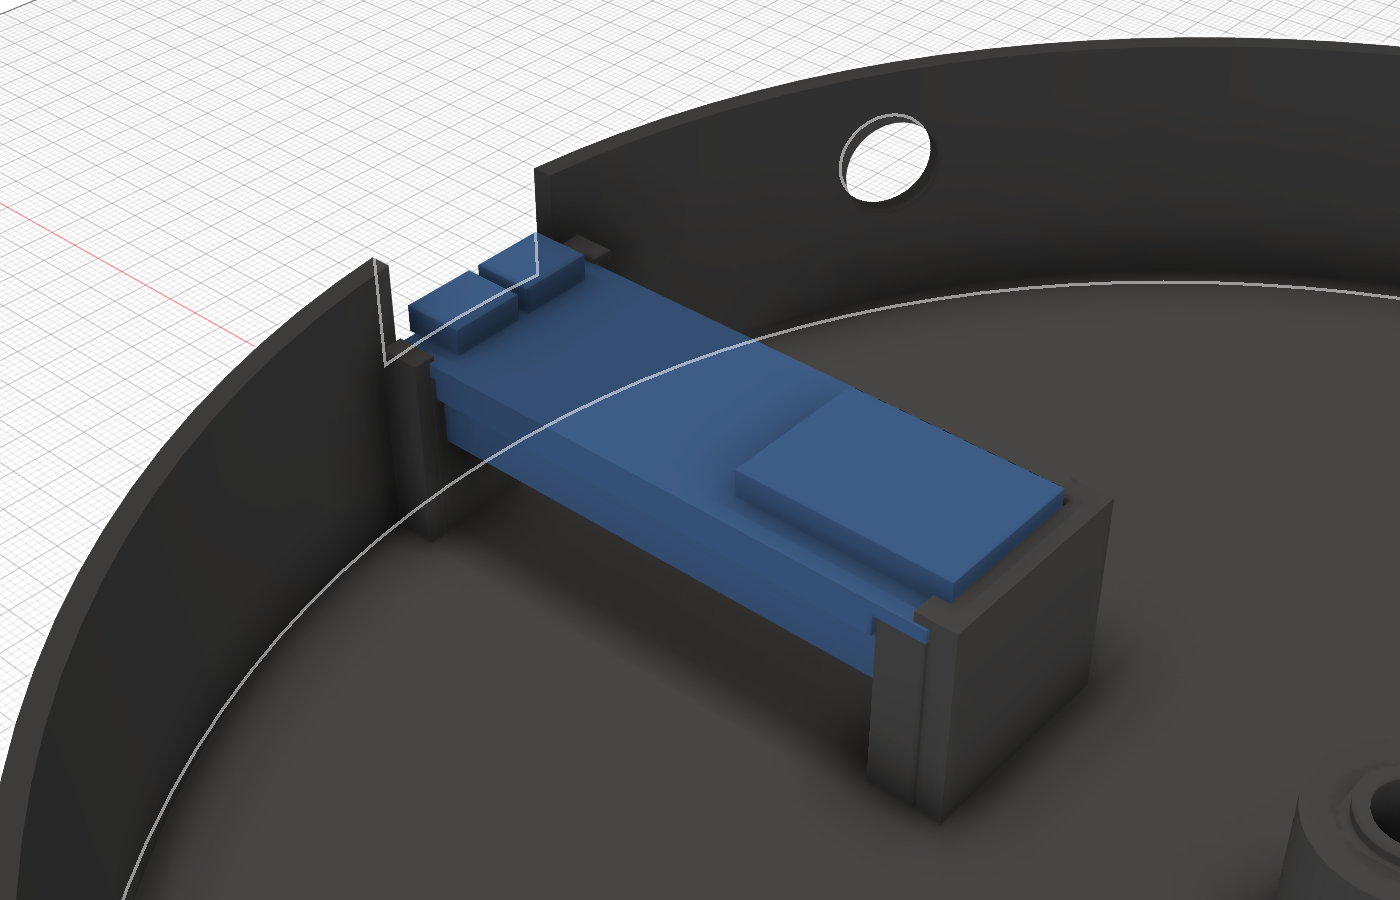
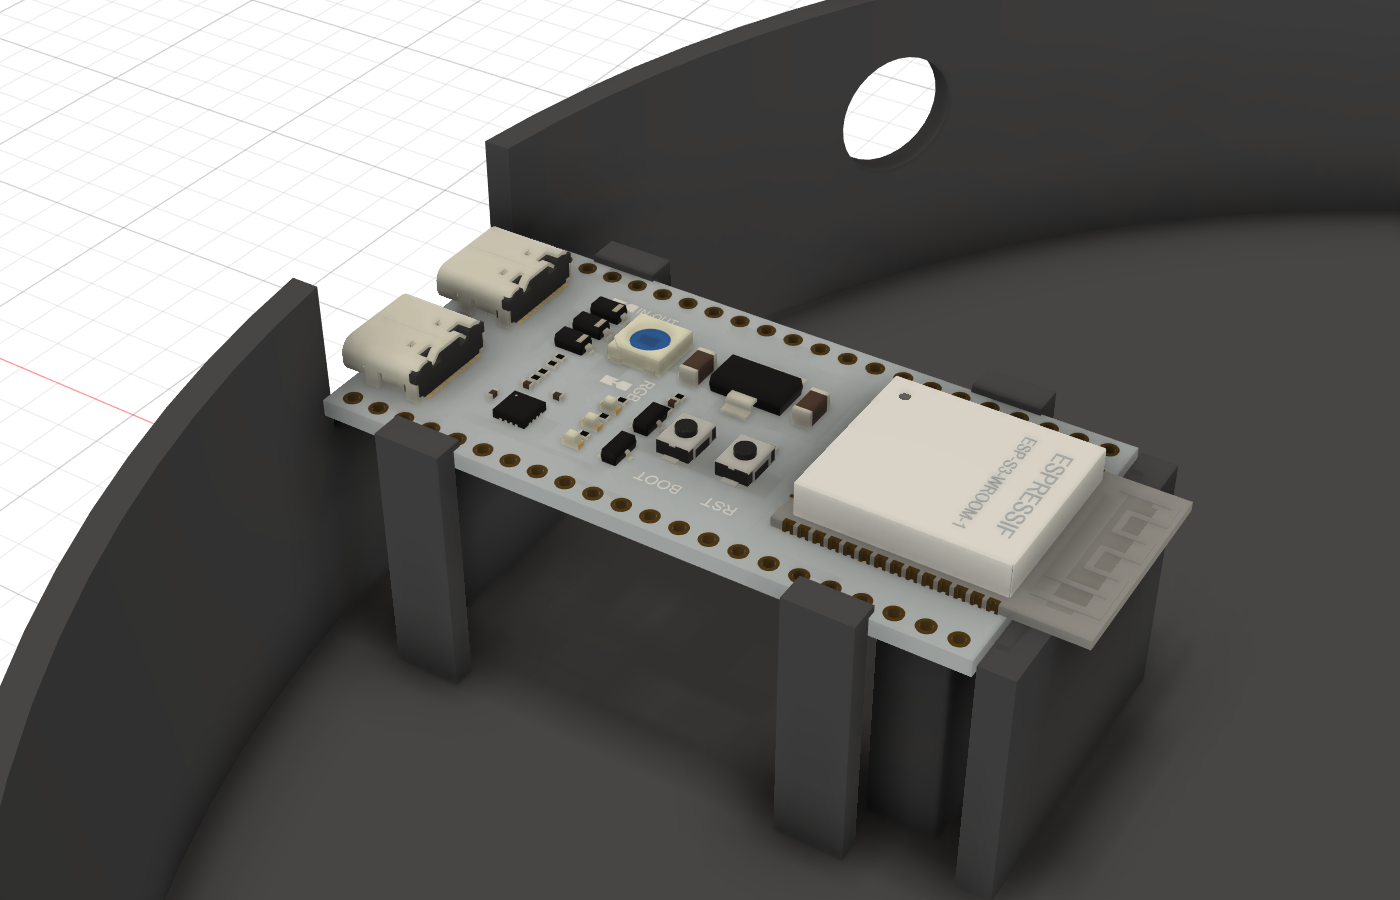
Turntable: fit the ESP32 holder to the real 2xUSB-C devkit model
The board is 57 x 28.3 mm with pins along almost its whole length and the module
overhanging the far end, so it now rests on ribs between the pin rows, stops under the
overhang and is held by snap lips over its long edges. The script inserts the real model
from the Fusion project as the reference.

diff --git a/turntable_fusion.py b/turntable_fusion.py
@@ -50,14 +50,19 @@ MOTOR_EAR_T = 0.8           # the ears are flush with the shaft face
 MOTOR_SHAFT_OFFSET = 8.0    # shaft to body centre
 MOTOR_EAR_HOLES = 35.0
 
-# --- ESP32-S3-DevKitC-1 -------------------------------------------------------------------------------------------
-# Pins down. It stands on two ledges under its ends (no pins there), its far end under two corner hooks against a
-# stop, its USB end held down by two snap lips; the wall beside the notch stops it when the cable is pulled out.
-ESP_L, ESP_W, ESP_PCB = 69.0, 25.5, 1.6   # board, without the USB-C overhang
-ESP_FREE_END = 5.5          # pin-free length at each end
+# --- ESP32-S3 devkit (2 x USB-C) ------------------------------------------------------------------------------
+# Measured on the real model, ESP32-S3-WROOM-1_devkit_2xUSBC in the Scan3DTable Fusion project: PCB 57 x 28.3 x 1.5,
+# pin rows 25.4 apart along almost all of its length, the module overhanging the far end by 6.4 mm, two USB-C at the
+# near end. Pins down. It rests on two ribs between the pin rows, stops against a block under the module's overhang,
+# and is held down by four snap lips over its long edges (outside the pins); the wall beside the notch stops it when
+# the cable is pulled out.
+ESP_MODEL_ID = "urn:adsk.wipprod:dm.lineage:Oi68pfRvQISsIDWMEH-G4Q"
+ESP_L, ESP_W, ESP_PCB = 57.0, 28.3, 1.5
+ESP_PIN_X = 12.7            # pin rows, from the board's middle; header plastic 2.54 wide around them
 ESP_UNDER = 21.0            # clear height under the board for the pins and the Dupont plugs
-ESP_USB_X = -111.4          # the board's USB end, just inside the wall
-USB_NOTCH_W = 24.0          # the opening for the plug; narrower than the board
+ESP_USB_X = -111.2          # the board's USB end, just inside the wall
+ESP_SNAPS = (10.0, 46.0)    # snap lips along the board, from its USB end
+USB_NOTCH_W = 25.0          # the opening for the plugs; narrower than the board
 
 # --- Phone stand --------------------------------------------------------------------------------------------------
 # Adjustable cradle: a back plate with two slots, and two jaws with a V groove that take the phone's edges, whatever
@@ -315,31 +320,31 @@ def esp_holder():
     x0, x1, hw = ESP_USB_X, ESP_USB_X + ESP_L, ESP_W / 2
     h = BASE_FLOOR + ESP_UNDER                  # underside of the board
     top = h + ESP_PCB
-    adds = [box(x0, x0 + ESP_FREE_END, -hw, hw, 0, h), box(x1 - ESP_FREE_END, x1, -hw, hw, 0, h),
-            box(x1 + 0.3, x1 + 3.3, -hw, hw, 0, top + 1.5)]
+    rib = ESP_PIN_X - 1.27 - 0.6                # clear of the header plastic and the Dupont plugs
+    adds = [box(x0 + 2, x0 + 8, -rib, rib, 0, h), box(x1 - 9, x1 - 3, -rib, rib, 0, h),
+            box(x1 + 0.3, x1 + 3.3, -hw, hw, 0, top - 0.3)]      # stop: below the module's overhang
     for sy in (-1, 1):
-        y_hook = sorted((sy * 9.8, sy * hw))     # corners only: the module sits between them
-        adds.append(box(x1 - 1.5, x1 + 0.5, y_hook[0], y_hook[1], top + 0.3, top + 1.5))
         y_post = sorted((sy * (hw + 0.2), sy * (hw + 2.2)))
-        y_lip = sorted((sy * (hw - 0.5), sy * (hw + 0.5)))
-        adds += [box(x0 + 0.5, x0 + ESP_FREE_END, y_post[0], y_post[1], 0, top + 0.9),
-                 box(x0 + 0.5, x0 + ESP_FREE_END, y_lip[0], y_lip[1], top + 0.3, top + 0.9)]
+        y_lip = sorted((sy * (hw - 0.6), sy * (hw + 0.2)))       # outside the pins' solder joints
+        for ly in ESP_SNAPS:
+            adds += [box(x0 + ly - 3, x0 + ly + 3, y_post[0], y_post[1], 0, top + 0.9),
+                     box(x0 + ly - 3, x0 + ly + 3, y_lip[0], y_lip[1], top + 0.3, top + 0.9)]
     cuts = [box(-BASE_D, x0, -USB_NOTCH_W / 2, USB_NOTCH_W / 2, h - 3, BASE_TOP + 1)]
     return adds, cuts
 
 
-def esp_dummy():
-    x0, x1, hw = ESP_USB_X, ESP_USB_X + ESP_L, ESP_W / 2
-    h = BASE_FLOOR + ESP_UNDER
-    top = h + ESP_PCB
-    body = union(box(x0, x1, -hw, hw, h, top), box(x1 - 25.5, x1, -9, 9, top, top + 3.2))   # board, WROOM module
-    for yc in (-5.2, 5.2):
-        union(body, box(x0 - 0.8, x0 + 6.5, yc - 4.5, yc + 4.5, top, top + 3.2))             # USB-C, two of them
-    xa, xb = x0 + ESP_FREE_END + 0.5, x1 - ESP_FREE_END - 0.5
-    for sy in (-1, 1):
-        yr = sy * (hw - 1.27)
-        union(body, box(xa, xb, yr - 1.27, yr + 1.27, h - 2.5, h), box(xa, xb, yr - 0.32, yr + 0.32, h - 8.5, h - 2.5))
-    return body
+def esp_model(root):
+    """The real board, from the Fusion project, placed in its holder; a plain box when the file cannot be found."""
+    x0, top = ESP_USB_X, BASE_FLOOR + ESP_UNDER + ESP_PCB
+    m = adsk.core.Matrix3D.create()
+    m.setWithCoordinateSystem(P(x0, 0, top), V(0, -1, 0), V(1, 0, 0), V(0, 0, 1))   # model: USB end at y = 0, top at z = 0
+    f = app.data.findFileById(ESP_MODEL_ID)
+    if f is None:
+        hw = ESP_W / 2
+        return add_part(root, "RIF ESP32-S3 devkit", [box(x0, x0 + ESP_L, -hw, hw, top - ESP_PCB, top)])
+    occ = root.occurrences.addByInsert(f, m, True)
+    occ.transform2 = m
+    return occ
 
 
 def pinion(root, bore=SHAFT_BORE):
@@ -641,10 +646,10 @@ def run(_context):
         ("Pomelli ganasce", [jaw_knob(root, -1, gap), jaw_knob(root, 1, gap)]),
         ("Attacco treppiede", [tripod_adapter(root, tripod_axis_shown())]),
     ]
-    reference = [("RIF motore 28BYJ-48", [motor_dummy()]), ("RIF ESP32-S3-DevKitC-1", [esp_dummy()]),
-                 (f"RIF {name}", [phone_dummy(w, t, h, bump)])]
+    reference = [("RIF motore 28BYJ-48", [motor_dummy()]), (f"RIF {name}", [phone_dummy(w, t, h, bump)])]
 
     for name, bodies in printed + reference + test_parts(root):
         add_part(root, name, bodies)
+    esp_model(root)
     print(f"{len(printed)} printed parts, {len(filled)} filled + {len(rings)} ring inserts; "
           f"stand post at y = {py:.1f} mm")

diff --git a/README.md b/README.md
@@ -7,8 +7,8 @@ ESP32-S3 and the ULN2003 board in the base, and a tilting phone stand on a slott
 phone about 50–105 mm wide and up to 18 mm thick, case included (iPhone 13 Pro, Galaxy S24 Ultra, a rugged case).
 
 Everything is generated by [turntable_fusion.py](turntable_fusion.py): run it in Fusion on an empty design
-(Utilities > Scripts and Add-Ins). It builds every part as its own component, with reference models of the motor, the
-ESP32 board and a phone (`RIF ...`) and the test pieces (`Prova ...`) beside it; export the meshes from Fusion. Change
+(Utilities > Scripts and Add-Ins). It builds every part as its own component, with reference models of the motor and a
+phone (`RIF ...`), the real ESP32 board inserted from the Fusion project and the test pieces (`Prova ...`) beside it; export the meshes from Fusion. Change
 the parameters at the top of the script (platter size, phone dimensions, camera distance, clearances) and run it again.
 
 ## Test prints first
@@ -27,7 +27,7 @@ print the real parts.
 | Prova pignoni | pinion on the motor shaft: snug, no wobble, no cracking | bore Ø 5.0 / 5.1 / 5.2, flats 3.0 / 3.1 / 3.2 | `SHAFT_BORE` |
 | Prova motore | the 28BYJ-48 drops through, its blue housing in the notch, M3 screws in the ears | one size (Ø 28.8) | `MOTOR_BODY_HOLE` |
 | Prova asole | the jaw slice slides along the plate piece, its C over both edges, without wobbling; the M5 head sits in the jaw; the M6 head slides in the arm's channel and the bolt in its slot | one size each | `PLATE_CLEAR` |
-| Prova ESP32 | the board snaps in (far end under the hooks first, then press the USB end down past the lips), does not move when you plug and pull the cable | one size | `ESP_L`, `ESP_W` |
+| Prova ESP32 | the board presses down past the four lips onto the ribs, its far end against the stop, and does not move when you plug and pull the cable | one size | `ESP_L`, `ESP_W` |
 
 Print them like the real parts: platter, bearing and motor pieces flat; the jaw piece is already lying on its outer
 face. Also try the M5 and M6 nuts in one Pomello M5 and Pomello M6, which you need anyway.
@@ -55,7 +55,8 @@ marks where the piece must stand. Insert fit is `INSERT_CLEAR` (0.15 mm radial).
 ## Hardware
 
 - 28BYJ-48 (5 V) and its ULN2003 board
-- ESP32-S3-DevKitC-1 (WROOM, 69 × 25.5 mm; set `ESP_L`, `ESP_W` for another board), in its holder in the base
+- ESP32-S3-WROOM-1 devkit with two USB-C (57 × 28.3 mm, the `ESP32-S3-WROOM-1_devkit_2xUSBC` model), headers
+  soldered pins down, in its holder in the base
 - 2 × 608 (608ZZ) bearing, pressed into the platter's hub
 - M8 × 35 hex bolt: the axle, head pressed into the hex under the base
 - 2 × M3 × 8 + nuts: motor ears to the plate
@@ -81,11 +82,16 @@ The motor plugs into the board's white connector. Power comes from the ESP32's U
 
 ![ESP32 holder](esp32.png)
 
-The board sits pins down, 21 mm above the floor so the Dupont plugs fit under it, on two ledges under its ends (the
-6 mm at each end that have no pins). Its far end goes under two corner hooks (clear of the WROOM module) against a
-stop, then the USB end presses down past two snap lips. Its USB-C ports face a 24 mm opening in the wall, open at the
-top and narrower than the board: plugging in pushes the board against the stop, pulling out pulls it against the wall
-beside the opening, and the lips keep it down. The platter's rim covers the opening.
+The holder is fitted to the real board's model (`ESP32-S3-WROOM-1_devkit_2xUSBC` in the Scan3DTable Fusion project,
+inserted in the design by the script): PCB 57 × 28.3 × 1.5 mm, pin rows 25.4 mm apart along almost all of its length,
+the WROOM module overhanging the far end by 6.4 mm, two USB-C at the near end.
+
+The board sits pins down, 21 mm above the floor so the Dupont plugs fit under it. It rests on two ribs between the
+pin rows, its far end against a stop that stays under the module's overhang, and four snap lips over its long edges
+(outside the pins' solder joints) hold it down: press it in from above. Its USB-C ports face a 25 mm opening in the
+wall, open at the top and narrower than the board: plugging in pushes the board against the stop, pulling out pulls
+it against the wall beside the opening. Checked on the model: nothing touches it in place, and 0.2–0.5 mm of play in
+any direction brings the PCB, never a component, against the holder. The platter's rim covers the opening.
 
 ## On a tripod
 
